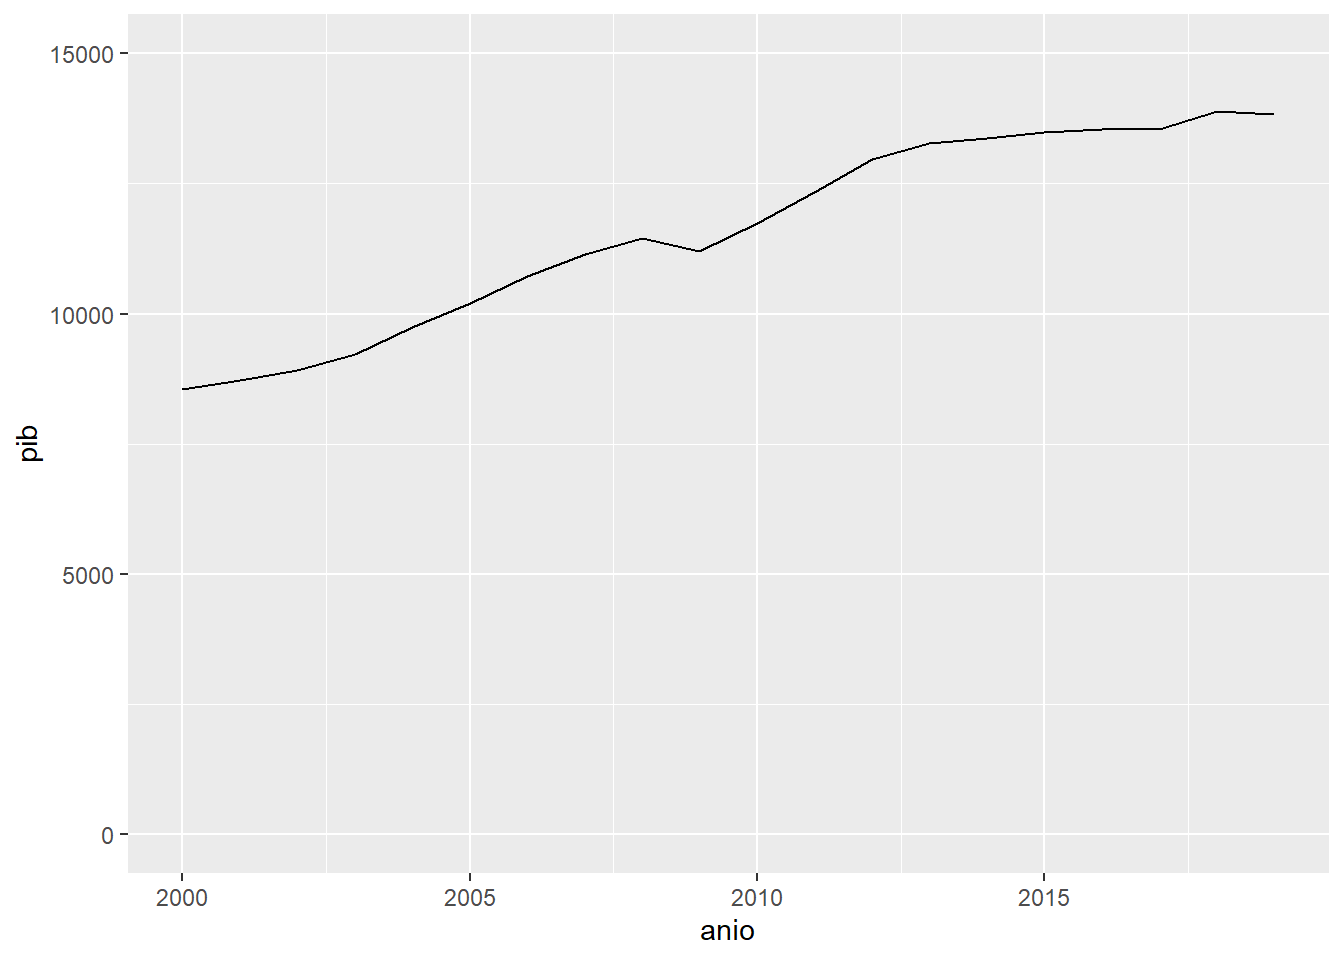
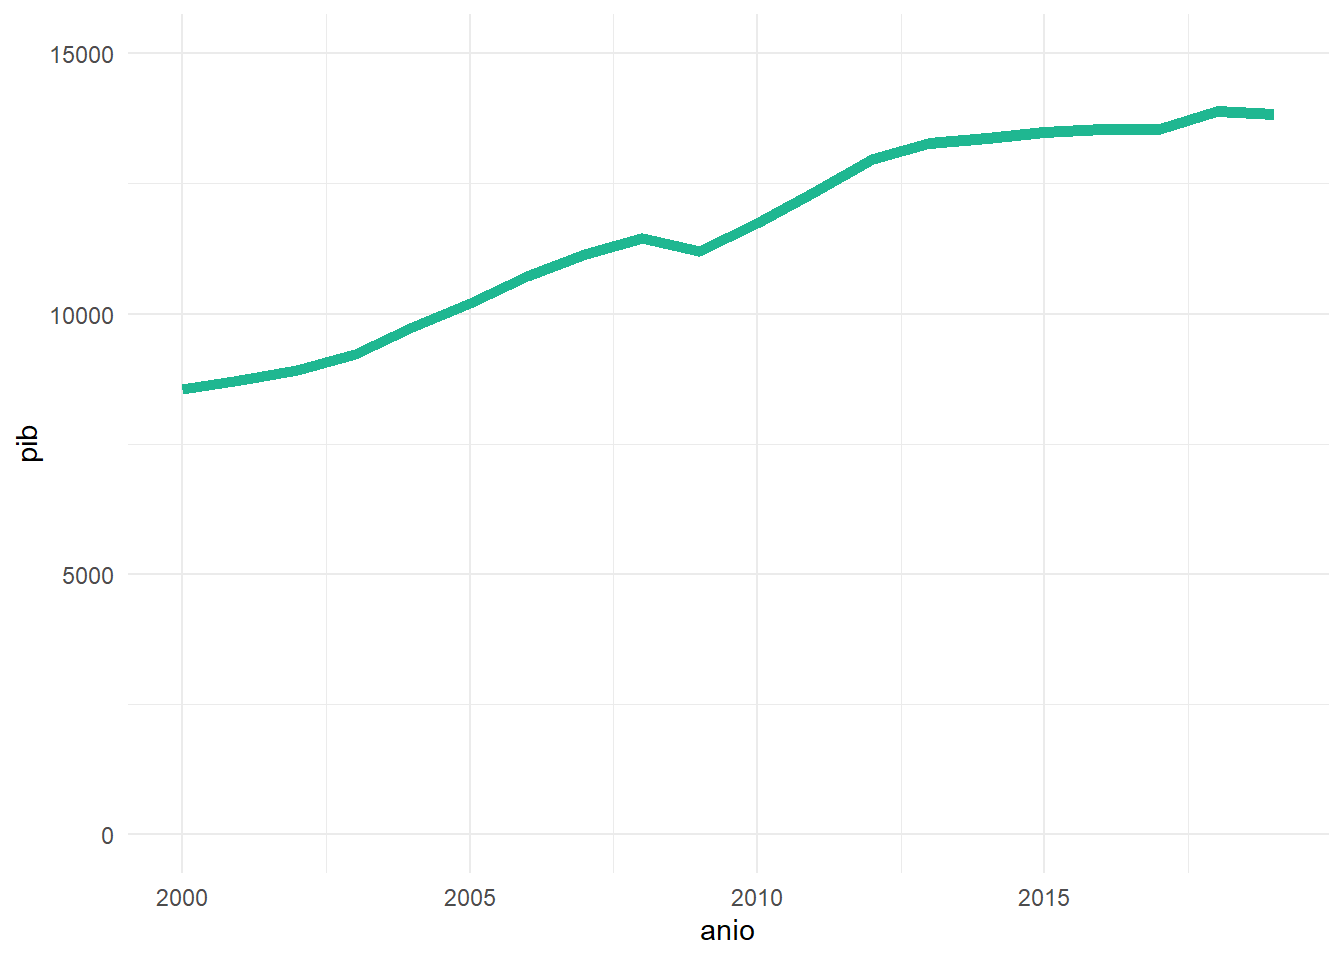
cambio en gráfico

diff --git a/productos/primer-quarto.html b/productos/primer-quarto.html
@@ -124,7 +124,7 @@ code span.wa { color: #60a0b0; font-weight: bold; font-style: italic; } /* Warni
 
 </header>
 
-<p>Podemos escribir texto directamente en el editor y lo podemos formatear: negrita, cursiva y como código</p>
+<p>Podemos escribir texto directamente en el editor y lo podemos formatear: <strong>negrita</strong>, <em>cursiva</em> y como <code>código</code>.</p>
 <p>LaTeX</p>
 <p>Y puedo agregr bloques de código:</p>
 <div class="cell">
@@ -153,8 +153,9 @@ Attaching package: 'dplyr'</code></pre>
 <p>Estos son los datos sobre Chile para las variables poblacion, pib,y esperanza de vida entre los años 2000 y 2019.</p>
 <div class="cell">
 <div class="sourceCode cell-code" id="cb6"><pre class="sourceCode r code-with-copy"><code class="sourceCode r"><span id="cb6-1"><a href="#cb6-1" aria-hidden="true" tabindex="-1"></a><span class="fu">ggplot</span>(desarrollo, <span class="fu">aes</span>(<span class="at">x=</span> anio, <span class="at">y=</span>pib)) <span class="sc">+</span> </span>
-<span id="cb6-2"><a href="#cb6-2" aria-hidden="true" tabindex="-1"></a>  <span class="fu">geom_line</span>() <span class="sc">+</span></span>
-<span id="cb6-3"><a href="#cb6-3" aria-hidden="true" tabindex="-1"></a>  <span class="fu">scale_y_continuous</span>(<span class="at">limits =</span> <span class="fu">c</span>(<span class="dv">0</span>,<span class="dv">15000</span>))</span></code><button title="Copy to Clipboard" class="code-copy-button"><i class="bi"></i></button></pre></div>
+<span id="cb6-2"><a href="#cb6-2" aria-hidden="true" tabindex="-1"></a>  <span class="fu">geom_line</span>(<span class="at">size=</span><span class="dv">2</span>, <span class="at">color=</span> <span class="st">'#1fb791'</span>) <span class="sc">+</span></span>
+<span id="cb6-3"><a href="#cb6-3" aria-hidden="true" tabindex="-1"></a>  <span class="fu">scale_y_continuous</span>(<span class="at">limits =</span> <span class="fu">c</span>(<span class="dv">0</span>,<span class="dv">15000</span>))<span class="sc">+</span></span>
+<span id="cb6-4"><a href="#cb6-4" aria-hidden="true" tabindex="-1"></a>  <span class="fu">theme_minimal</span>()</span></code><button title="Copy to Clipboard" class="code-copy-button"><i class="bi"></i></button></pre></div>
 <div class="cell-output-display">
 <p><img src="primer-quarto_files/figure-html/unnamed-chunk-2-1.png" class="img-fluid" width="672"></p>
 </div>
